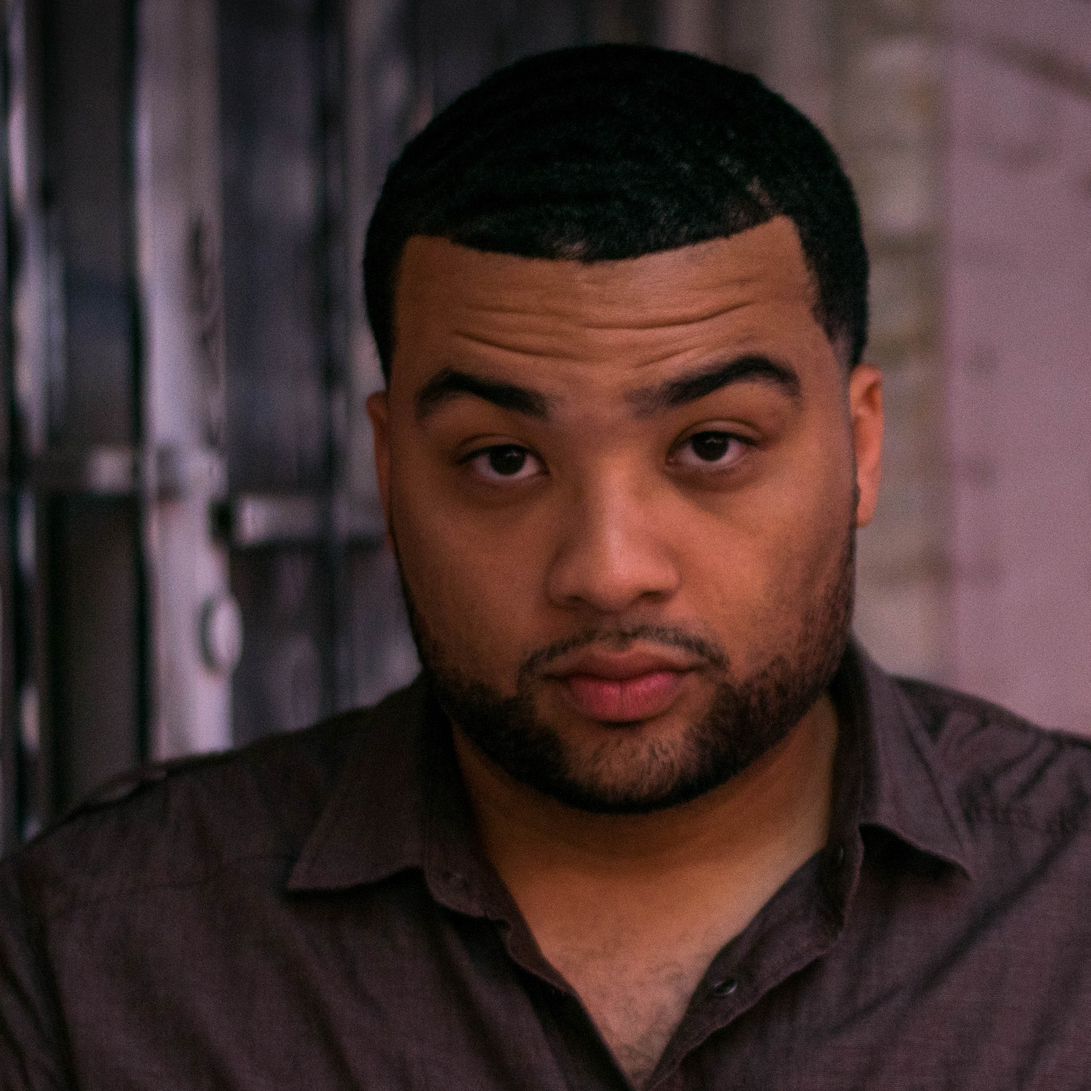
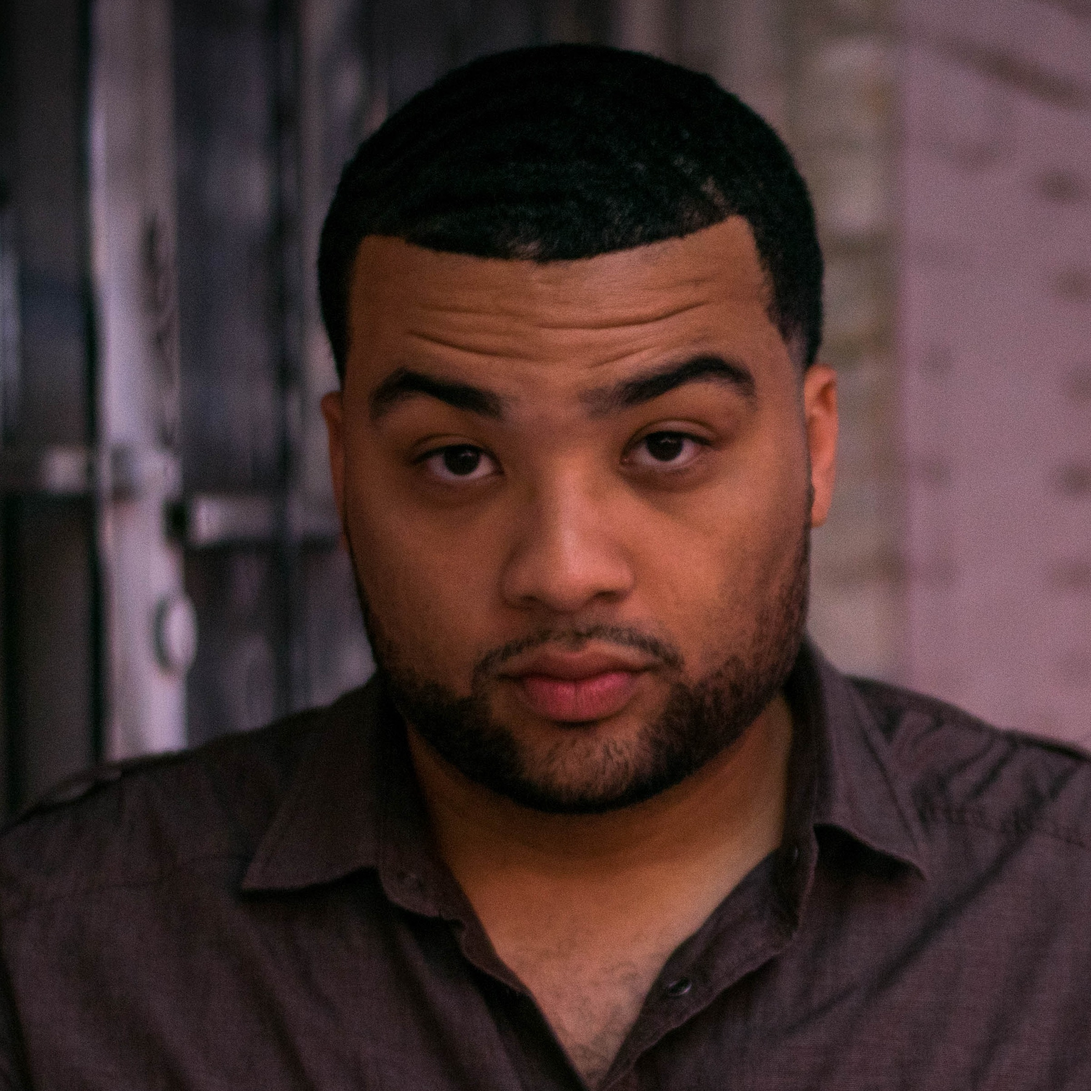
Nudge crop right per feedback

diff --git a/out-the-door/index.html b/out-the-door/index.html
@@ -7,7 +7,7 @@
 <meta name="description" content="Stream Out The Door by TJ King, produced with Onbin.">
 <meta property="og:title" content="TJ King — Out The Door">
 <meta property="og:description" content="Stream Out The Door, produced with Onbin.">
-<meta property="og:image" content="cover.jpg?v=20260910181338">
+<meta property="og:image" content="cover.jpg?v=20260910181630">
 <meta name="theme-color" content="#1A0A02">
 <style>
   :root {
@@ -81,7 +81,7 @@
 </head>
 <body>
 <main>
-  <img class="cover reveal" src="cover.jpg?v=20260910181338" alt="TJ King" width="240" height="240">
+  <img class="cover reveal" src="cover.jpg?v=20260910181630" alt="TJ King" width="240" height="240">
   <h1 class="reveal">OUT THE DOOR</h1>
   <p class="byline reveal">TJ King x Onbin</p>
 
